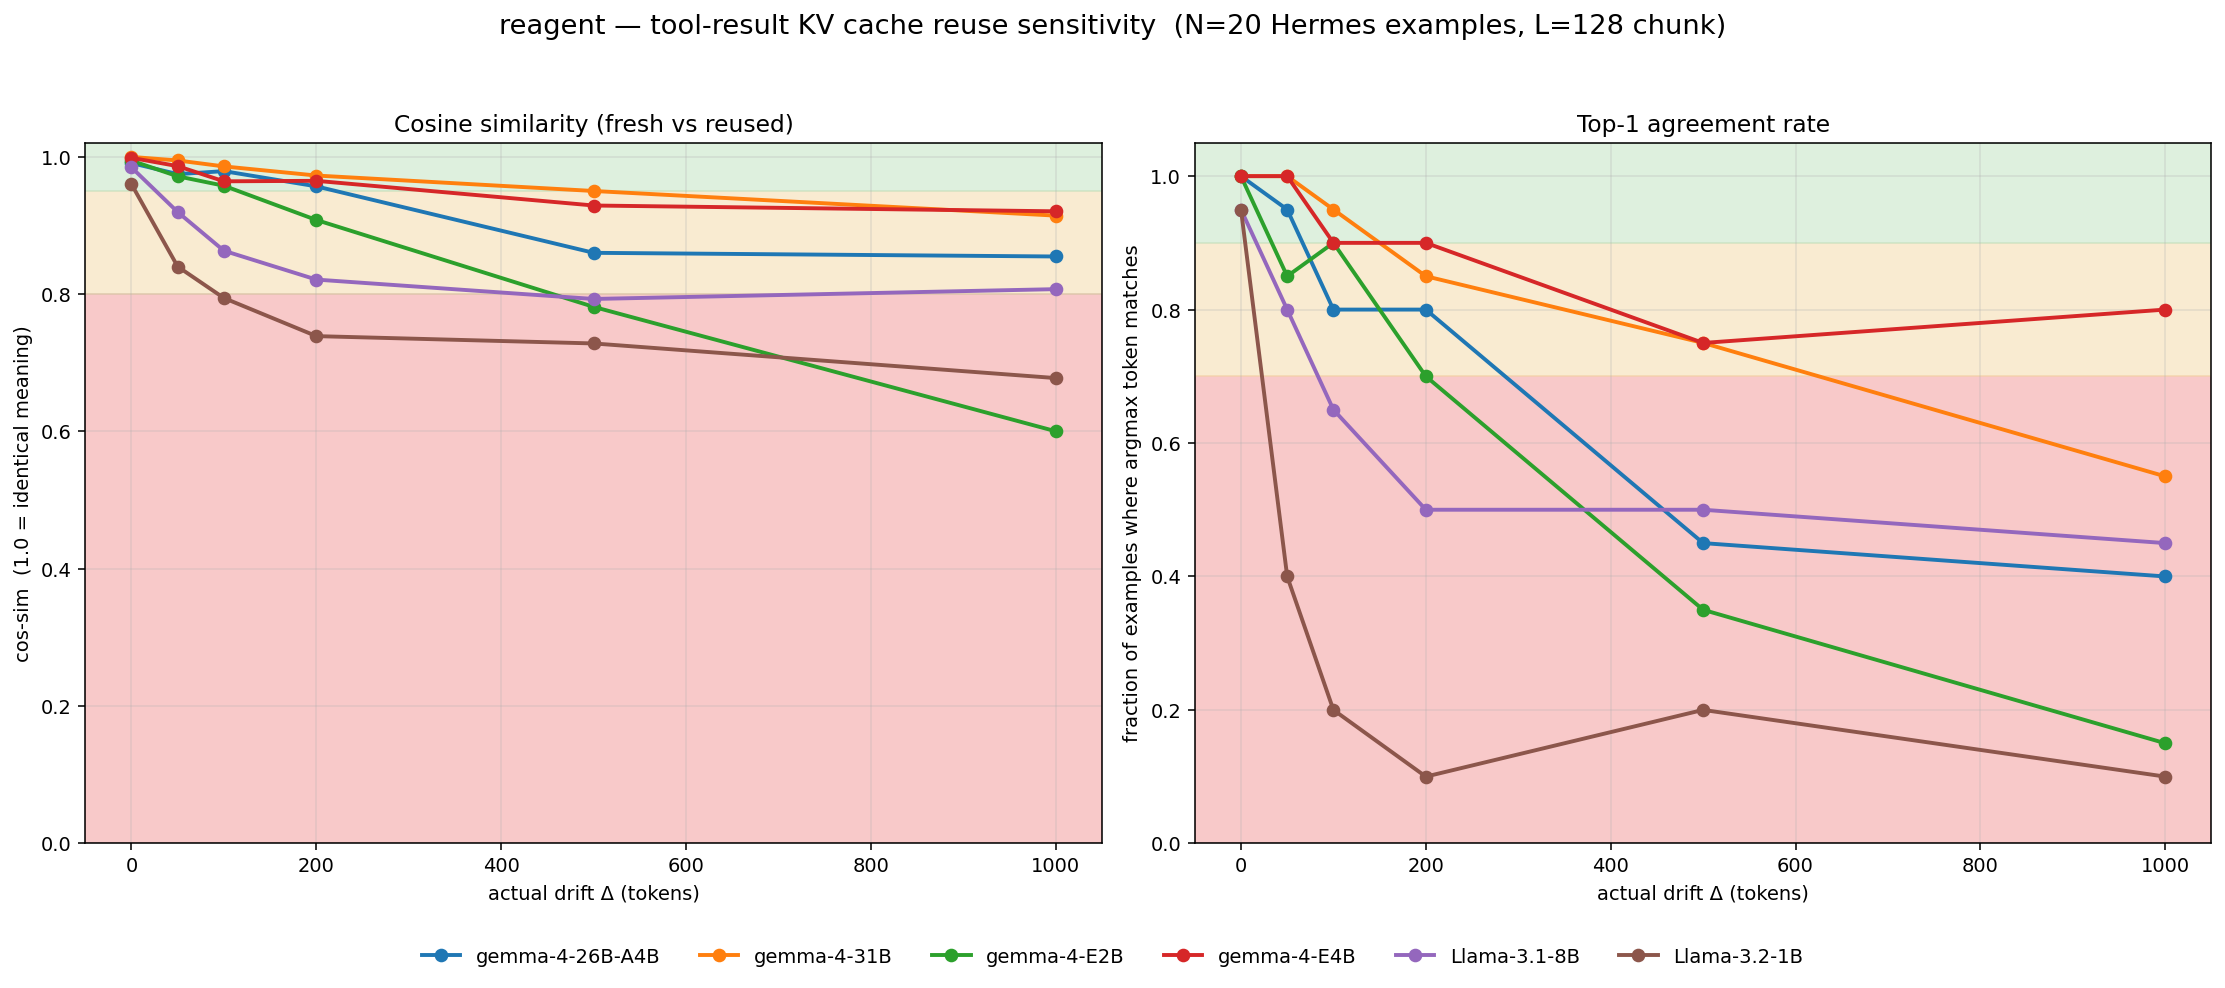
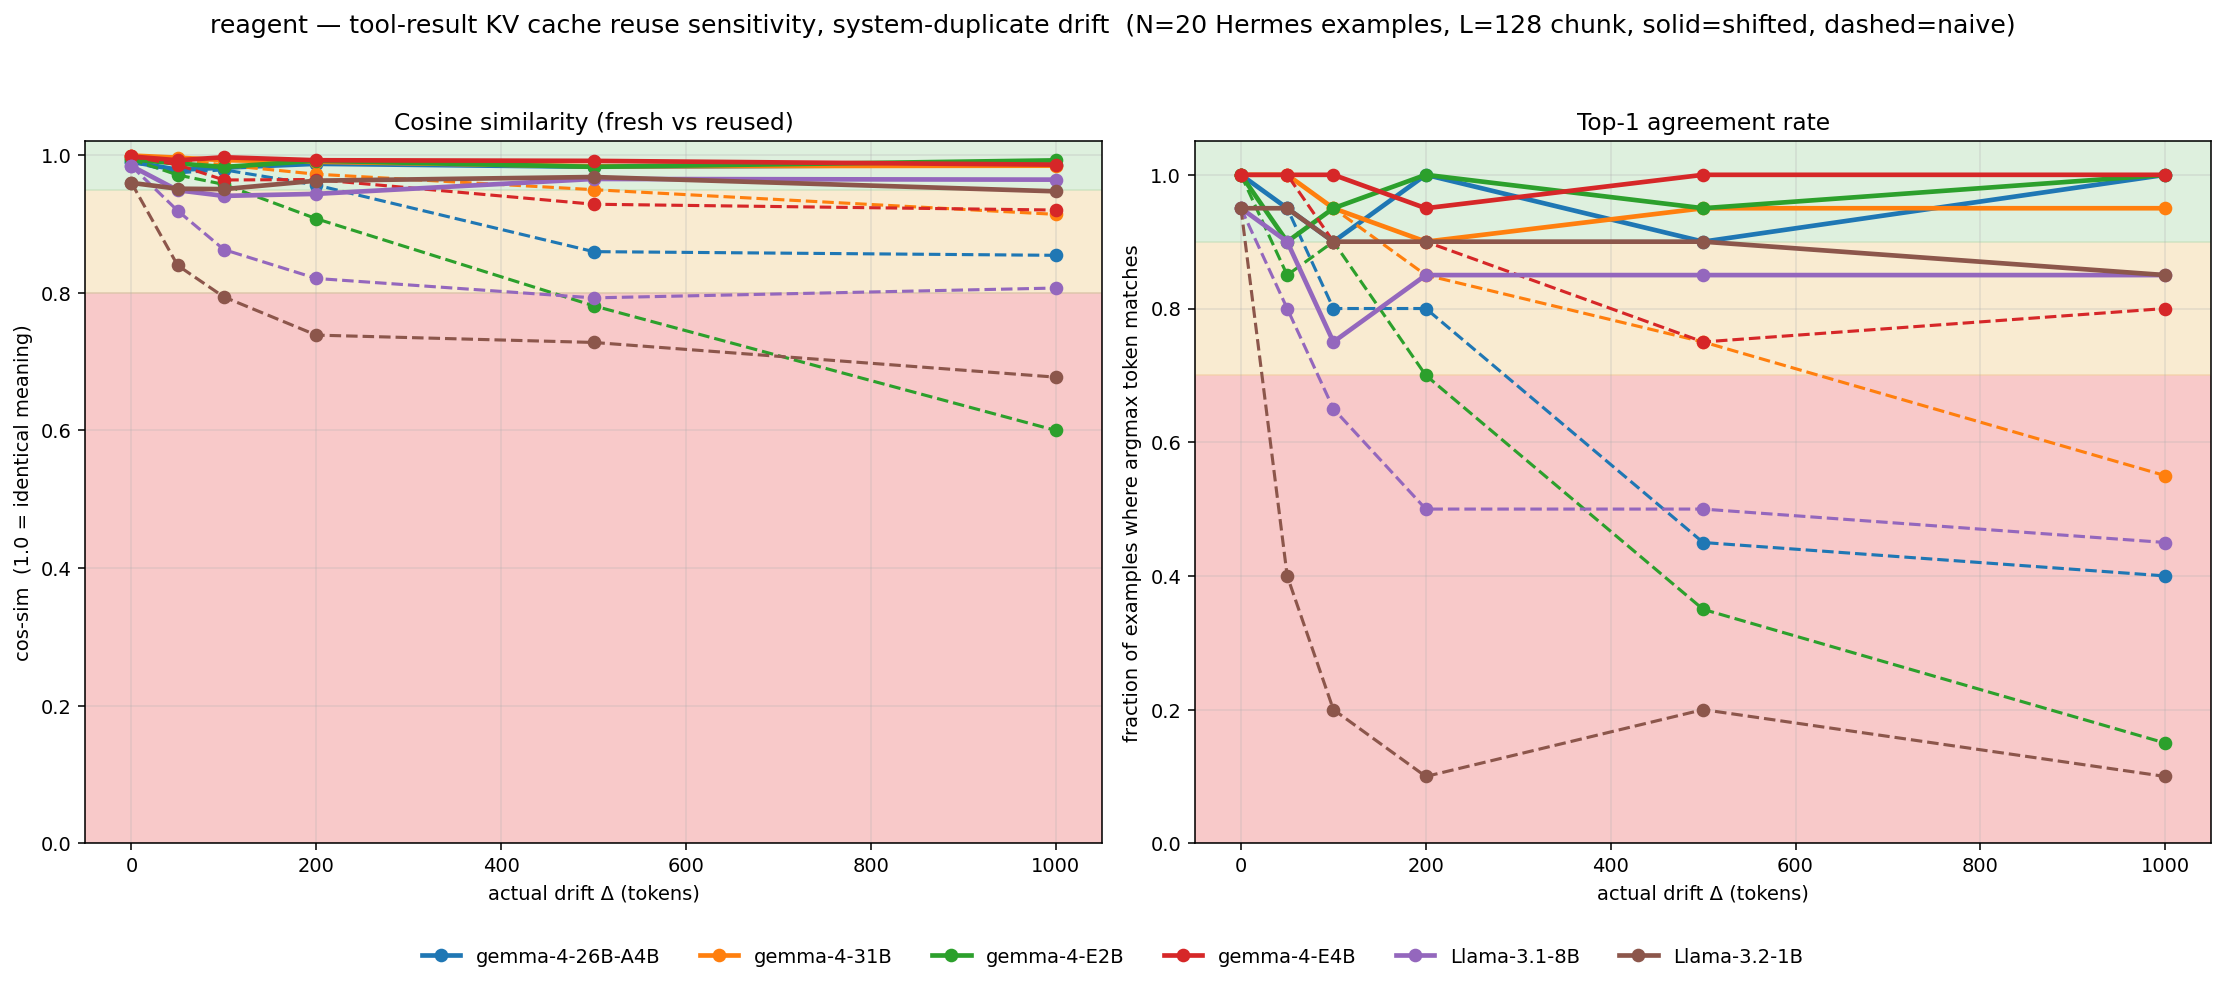
doc: add naive-vs-shifted panel and prior-tool-exchange stress result
Rewrites the Results section around the naive-vs-shifted comparison: tables now show naive → shifted at each drift, and the regenerated figure overlays the two reuse strategies as dashed/solid lines per model on the same safety bands. On the system-duplicate drift mode every model in the panel reaches sim ≥ 0.94 under shifted reuse, up from naive floors of 0.60 (E2B at Δ=1000) and 0.68 (Llama-3.2-1B at Δ=1000). Adds a prior-tool-exchange subsection that exposes a ~5% context-conditioning residual that shift correction cannot fix. The Passing Bar and Running sections are updated to reflect the two reuse modes.

visualize.py now restricts the panel to system-duplicate runs (so other drift modes don't pollute the figure), groups rows by (model, reuse_mode), and plots naive as dashed, shifted as solid in matching per-model colors.

diff --git a/visualize.py b/visualize.py
@@ -30,12 +30,24 @@ def _short(model_id: str) -> str:
 
 
 def load_results(dir_path: Path):
+    """Collect per-model rows for the canonical (naive + shifted) x
+    system-duplicate experiment. Legacy JSONs (pre-dating the
+    reuse_mode/drift_mode fields) are assumed to be naive +
+    system-duplicate, which matches the original harness default.
+    Any non-system-duplicate runs (prior-tool-exchange, etc.) are
+    ignored so the panel stays focused on the core comparison.
+    """
     rows = []
     for f in sorted(dir_path.glob("*.json")):
         data = json.loads(f.read_text())
+        drift_mode = data.get("drift_mode", "system-duplicate")
+        if drift_mode != "system-duplicate":
+            continue
+        reuse_mode = data.get("reuse_mode", "naive")
         drifts = sorted(int(d) for d in data["per_drift"])
         series = {
             "model": data["model"],
+            "reuse_mode": reuse_mode,
             "drifts": drifts,
             "n_examples": data.get("n_examples", "?"),
         }
@@ -66,16 +78,21 @@ def main():
     if not rows:
         raise SystemExit(f"no *.json files in {args.results_dir}")
 
-    # Color each model consistently across subplots.
+    # Color each model consistently across subplots and reuse modes.
+    models_in_order = sorted({r["model"] for r in rows})
     cmap = plt.get_cmap("tab10")
-    colors = {r["model"]: cmap(i % 10) for i, r in enumerate(rows)}
+    colors = {m: cmap(i % 10) for i, m in enumerate(models_in_order)}
+
+    # Line style per reuse mode.
+    style_by_mode = {"naive": "--", "shifted": "-"}
+    width_by_mode = {"naive": 1.6, "shifted": 2.4}
 
     n_examples = rows[0].get("n_examples", "?")
     fig, axes = plt.subplots(1, 2, figsize=(16, 7), sharex=True)
     fig.suptitle(
-        f"reagent — tool-result KV cache reuse sensitivity  "
-        f"(N={n_examples} Hermes examples, L=128 chunk)",
-        fontsize=14,
+        f"reagent — tool-result KV cache reuse sensitivity, system-duplicate drift  "
+        f"(N={n_examples} Hermes examples, L=128 chunk, solid=shifted, dashed=naive)",
+        fontsize=13,
     )
 
     # Safety bands. Green = safe to reuse, yellow = borderline, red = unsafe.
@@ -112,21 +129,33 @@ def main():
             xs = r["mean_actual_delta"]
             ys = r[key]
             c = colors[r["model"]]
-            label = _short(r["model"])
-            ax.plot(xs, ys, marker="o", linewidth=2.0, color=c, label=label, zorder=3)
+            ls = style_by_mode.get(r["reuse_mode"], "-")
+            lw = width_by_mode.get(r["reuse_mode"], 2.0)
+            # Only label the shifted line to keep the legend one-per-model.
+            label = _short(r["model"]) if r["reuse_mode"] == "shifted" else None
+            ax.plot(
+                xs,
+                ys,
+                marker="o",
+                linewidth=lw,
+                linestyle=ls,
+                color=c,
+                label=label,
+                zorder=3,
+            )
         ax.set_title(title)
         ax.set_ylabel(ylabel)
         ax.grid(True, alpha=0.3, zorder=1)
         ax.set_ylim(*ylim)
         ax.set_xlabel("actual drift Δ (tokens)")
 
-    # Put a single legend underneath all plots.
+    # Legend shows one entry per model (from the shifted lines).
     handles, labels = axes[0].get_legend_handles_labels()
     fig.legend(
         handles,
         labels,
         loc="lower center",
-        ncol=min(len(rows), 6),
+        ncol=min(len(models_in_order), 6),
         frameon=False,
         bbox_to_anchor=(0.5, -0.01),
     )

diff --git a/README.md b/README.md
@@ -108,87 +108,97 @@ different content or meaning (red).
 
 ## Results
 
-N = 20 Hermes examples, L = 128, `bge-small-en-v1.5` embedder.
+N = 20 Hermes examples, L = 128, `bge-small-en-v1.5` embedder,
+drift-mode = `system-duplicate`.
 
 ![reagent panel](reagent_panel.png)
 
-### sim(fresh, reused) — headline
+Dashed lines = naive reuse (splice cached K/V without correction);
+solid lines = shifted reuse (re-rotate K by the position delta before
+splicing, matching llama.cpp's `llama_memory_seq_add`). Coloured bands
+come from the Passing Bar thresholds.
+
+### sim(fresh, reused) — headline (naive → shifted)
 
 Semantic similarity between the greedy continuation produced without
-reuse and with reuse. Green band (≥ 0.95) means naive reuse produces
-a semantically-equivalent response; yellow (0.80–0.95) means same
-topic but rewording; red (< 0.80) means reuse rewrites the answer.
+reuse and with reuse. ≥ 0.95 (green) means reuse is
+indistinguishable from fresh; 0.80–0.95 (yellow) means same topic
+but rewording; < 0.80 (red) means reuse rewrites the answer.
 
 | model | Δ=0 | Δ=50 | Δ=100 | Δ=200 | Δ=500 | Δ=1000 |
 |---|---|---|---|---|---|---|
-| `gemma-4-E4B` | 1.00 | 0.99 | 0.96 | 0.96 | 0.93 | 0.92 |
-| `gemma-4-31B` | 1.00 | 0.99 | 0.99 | 0.97 | 0.95 | 0.91 |
-| `gemma-4-26B-A4B` | 0.99 | 0.97 | 0.98 | 0.96 | 0.86 | 0.85 |
-| `Llama-3.1-8B` | 0.98 | 0.92 | 0.86 | 0.82 | 0.79 | 0.81 |
-| `Llama-3.2-1B` | 0.96 | 0.84 | 0.79 | 0.74 | 0.73 | 0.68 |
-| `gemma-4-E2B` | 0.99 | 0.97 | 0.96 | 0.91 | 0.78 | 0.60 |
+| `gemma-4-E4B` | 1.00→1.00 | 0.99→0.99 | 0.96→1.00 | 0.96→0.99 | 0.93→0.99 | 0.92→0.99 |
+| `gemma-4-31B` | 1.00→1.00 | 0.99→1.00 | 0.99→0.99 | 0.97→0.99 | 0.95→0.98 | 0.91→0.98 |
+| `gemma-4-26B-A4B` | 0.99→0.99 | 0.97→0.98 | 0.98→0.98 | 0.96→0.99 | 0.86→0.98 | 0.85→0.99 |
+| `Llama-3.1-8B` | 0.98→0.98 | 0.92→0.95 | 0.86→0.94 | 0.82→0.94 | 0.79→0.97 | 0.81→0.96 |
+| `gemma-4-E2B` | 0.99→0.99 | 0.97→0.99 | 0.96→0.98 | 0.91→0.99 | 0.78→0.98 | 0.60→**0.99** |
+| `Llama-3.2-1B` | 0.96→0.96 | 0.84→0.95 | 0.79→0.95 | 0.74→0.96 | 0.73→0.97 | 0.68→**0.95** |
 
-### top-1 agreement
+Shifted reuse lifts every model to ≥ 0.94 sim across the whole
+drift range. The worst naive regressions (E2B at Δ=1000: 0.60;
+Llama-3.2-1B at Δ=1000: 0.68) recover to 0.99 and 0.95. The phase
+error is essentially the whole story at this block type.
+
+### top-1 agreement (naive → shifted)
 
 Fraction of examples where fresh and reused produce the same argmax
-token at the trigger position. Green (≥ 0.90), yellow (0.70–0.90),
-red (< 0.70) in the figure.
+token at the trigger position. Stricter metric than sim — first-token
+disagreement can be papered over by greedy decoding, so top-1 drops
+faster than sim even when the final text converges.
 
 | model | Δ=0 | Δ=50 | Δ=100 | Δ=200 | Δ=500 | Δ=1000 |
 |---|---|---|---|---|---|---|
-| `gemma-4-E4B` | 1.00 | 1.00 | 0.90 | 0.90 | 0.75 | 0.80 |
-| `gemma-4-31B` | 1.00 | 1.00 | 0.95 | 0.85 | 0.75 | 0.55 |
-| `Llama-3.1-8B` | 0.95 | 0.80 | 0.65 | 0.50 | 0.50 | 0.45 |
-| `gemma-4-26B-A4B` | 1.00 | 0.95 | 0.80 | 0.80 | 0.45 | 0.40 |
-| `gemma-4-E2B` | 1.00 | 0.85 | 0.90 | 0.70 | 0.35 | 0.15 |
-| `Llama-3.2-1B` | 0.95 | 0.40 | 0.20 | 0.10 | 0.20 | 0.10 |
-
-### mean KL(fresh ∥ reused) (nats)
-
-| model | Δ=0 | Δ=50 | Δ=100 | Δ=200 | Δ=500 | Δ=1000 |
-|---|---|---|---|---|---|---|
-| `gemma-4-E4B` | 0.00±0.00 | 0.01±0.02 | 0.03±0.04 | 0.09±0.09 | 0.62±1.29 | 0.69±1.41 |
-| `Llama-3.1-8B` | 0.00±0.00 | 0.08±0.04 | 0.21±0.20 | 1.02±1.45 | 1.94±2.46 | 2.09±2.39 |
-| `gemma-4-31B` | 0.00±0.00 | 0.03±0.06 | 0.15±0.58 | 0.40±1.41 | 1.98±4.61 | 2.65±5.41 |
-| `gemma-4-26B-A4B` | 0.01±0.01 | 0.06±0.14 | 0.09±0.14 | 0.36±1.07 | 2.91±3.36 | 2.74±3.14 |
-| `Llama-3.2-1B` | 0.00±0.00 | 2.25±1.67 | 3.47±2.32 | 5.50±3.03 | 5.44±3.02 | 5.93±3.26 |
-| `gemma-4-E2B` | 0.01±0.05 | 1.91±5.72 | 0.14±0.40 | 2.49±4.59 | 3.99±4.74 | 7.01±5.56 |
-
-### sim(reused, reference)
-
-Cosine similarity of the reused continuation against the dataset's
-gold assistant reply — a task-quality floor independent of fresh.
-
-| model | Δ=0 | Δ=50 | Δ=100 | Δ=200 | Δ=500 | Δ=1000 |
-|---|---|---|---|---|---|---|
-| `gemma-4-E4B` | 0.91 | 0.90 | 0.89 | 0.89 | 0.88 | 0.88 |
-| `gemma-4-31B` | 0.91 | 0.91 | 0.90 | 0.91 | 0.89 | 0.87 |
-| `gemma-4-26B-A4B` | 0.90 | 0.89 | 0.90 | 0.89 | 0.84 | 0.83 |
-| `Llama-3.1-8B` | 0.87 | 0.83 | 0.82 | 0.79 | 0.74 | 0.74 |
-| `gemma-4-E2B` | 0.88 | 0.88 | 0.88 | 0.83 | 0.77 | 0.58 |
-| `Llama-3.2-1B` | 0.76 | 0.76 | 0.73 | 0.67 | 0.67 | 0.65 |
+| `gemma-4-E4B` | 1.00→1.00 | 1.00→1.00 | 0.90→1.00 | 0.90→0.95 | 0.75→1.00 | 0.80→1.00 |
+| `gemma-4-31B` | 1.00→1.00 | 1.00→1.00 | 0.95→0.95 | 0.85→0.90 | 0.75→0.95 | 0.55→0.95 |
+| `gemma-4-26B-A4B` | 1.00→1.00 | 0.95→0.95 | 0.80→0.90 | 0.80→1.00 | 0.45→0.90 | 0.40→1.00 |
+| `Llama-3.1-8B` | 0.95→0.95 | 0.80→0.90 | 0.65→0.75 | 0.50→0.85 | 0.50→0.85 | 0.45→0.85 |
+| `gemma-4-E2B` | 1.00→1.00 | 0.85→0.90 | 0.90→0.95 | 0.70→1.00 | 0.35→0.95 | 0.15→**1.00** |
+| `Llama-3.2-1B` | 0.95→0.95 | 0.40→0.95 | 0.20→0.90 | 0.10→0.90 | 0.20→0.90 | 0.10→**0.85** |
 
 ### How to read the tables
 
 - **Δ=0** is the sanity floor. Non-zero KL here means a harness bug,
-  not a model insight.
+  not a model insight. At Δ=0 both naive and shifted should produce
+  identical output — the shift is 0, so `shift_k_rope` is a no-op.
 - **`sim(fresh, reused)`** is the headline. ≥ 0.95 (green) means
-  naive reuse is indistinguishable; 0.80–0.95 (yellow) means same
-  topic but rewording; < 0.80 (red) means reuse rewrites the answer.
-- **KL** flags first-token disagreement; **sim** tells you whether
-  the disagreement persists or the two sides converge on similar
-  content after a few tokens. Use both.
-- **`sim(reused, reference)`** gives a quality floor: if it drops
-  faster than `sim(fresh, reused)` as Δ grows, reuse is degrading
-  task quality.
-- **Large stdev matters.** Gemma-4-E2B at Δ=1000 shows `7.01±5.56`:
-  the outcome is prompt-dependent and production quality would be
-  unpredictable.
+  reuse is indistinguishable; 0.80–0.95 (yellow) means same topic
+  but rewording; < 0.80 (red) means reuse rewrites the answer.
 - **Agreement vs similarity diverge.** Top-1 agreement drops fast
-  (even the best models are at 0.55–0.80 by Δ=1000), while
-  `sim(fresh, reused)` holds ≥ 0.90 for the Gemma-4 ≥ 4B panel —
-  greedy decoding recovers to semantically-equivalent output
-  despite first-token disagreement.
+  even for the best-naive models (Llama-3.2-1B at Δ=1000 naive: 10%
+  agreement, 68% sim), while sim stays higher because greedy decoding
+  routes back to a semantically-equivalent continuation. Shifted
+  pulls both metrics into the green zone simultaneously.
+
+### Additional stress test: prior-tool-exchange (E4B)
+
+Under drift-mode `prior-tool-exchange`, the drifted request has a
+complete donor `[user → asst(tool_call) → tool]` exchange spliced
+between the `system` and the original `user`. Unlike
+`system-duplicate` (which inflates with semantically-null copies of
+the system prompt), this introduces genuinely different content
+between cache-write and cache-read, so the cached chunk's
+attention-encoded neighbours are no longer the same. This exposes
+the *context-conditioning* error that RoPE shift alone cannot fix.
+
+E4B, N=20, drifts `{0, 500, 1000, 2000, 5000}`:
+
+| Δ | naive sim | shifted sim | Δsim | naive KL | shifted KL |
+|---|---|---|---|---|---|
+| 0 | 1.00 | 1.00 | +0.00 | 0.00 | 0.00 |
+| 500 | 0.94 | 0.96 | +0.02 | 0.60 | 0.06 |
+| 1000 | 0.90 | 0.94 | +0.03 | 0.57 | 0.14 |
+| 2000 | **0.74** | **0.94** | **+0.21** | 2.67 | 0.18 |
+| 5000 | 0.84 | 0.94 | +0.10 | 1.79 | 0.28 |
+
+Shift correction flattens the naive curve (which dips to 0.74 at
+Δ=2000) to ~0.94 across all drifts. But the ceiling is ~0.94, not
+~0.99 like system-duplicate — the ≈5% gap is the context-conditioning
+residual: the cached K vectors encode attention back to their
+original neighbours, which are not present in the drifted request.
+Shift corrects positions; it cannot reconstruct the referents. The
+magnitude is small on this dataset because a tool-result's K is
+mostly internally self-referential, but it is present and
+non-zero.
 
 ### Drift magnitudes
 
@@ -201,11 +211,15 @@ gold assistant reply — a task-quality floor independent of fresh.
 
 ### Passing bar
 
-A model is safe for naive cross-prompt cache reuse at a given drift
-when mean KL < ~1 nat, stdev small relative to the mean, top-1 agree
-≥ 0.9, and `sim(fresh, reused)` ≥ 0.95. Anything worse means the
-serving stack needs a correction policy (boundary recompute,
-re-prefill, or skip-reuse past a Δ threshold).
+A reuse setup is safe at a given drift when mean KL < ~1 nat, stdev
+small relative to the mean, top-1 agree ≥ 0.9, and
+`sim(fresh, reused)` ≥ 0.95. Under **naive** reuse, no model in our
+panel meets that bar past Δ=50; large Gemma-4 variants degrade
+gracefully but still fall below 0.95 sim and 0.9 agreement by
+Δ=500. Under **shifted** reuse every model in the panel meets the
+bar across the entire drift range on `system-duplicate`. Shifted is
+the production-correctness baseline; naive is a strawman that should
+never ship.
 
 ## Running
 
@@ -240,9 +254,32 @@ models that already have a non-empty `results/<model>.json`
 model writes a JSON with both aggregated statistics and per-example
 rows.
 
+`measure_reuse_drift.py` takes `--reuse-mode {naive, shifted}`
+(default `naive`) and `--drift-mode {system-duplicate,
+system-instructions, turn-insert, prior-tool-exchange}` (default
+`system-duplicate`). Combine them to explore the matrix directly:
+
+```bash
+# shifted on the canonical drift mode
+uv run --script measure_reuse_drift.py --model ... --reuse-mode shifted ...
+
+# harder drift mode with real content between cache-write and cache-read
+uv run --script measure_reuse_drift.py --model ... --drift-mode prior-tool-exchange ...
+```
+
 `visualize.py` renders a 2-panel figure (`sim(fresh, reused)` and
-top-1 agreement) from whatever JSONs are present, with green /
-yellow / red safety bands drawn from the Passing Bar thresholds.
+top-1 agreement) from the `results/` JSONs. It includes only the
+`system-duplicate` runs (the other drift modes use different Δ
+schedules and live outside the core panel) and draws naive as dashed
+lines and shifted as solid lines, in matching colours per model, on
+the green / yellow / red safety bands from the Passing Bar
+thresholds.
+
+The `drift_modes` module is unit-tested with pytest:
+
+```bash
+./test_drift_modes.py    # 59 parametrized tests, ~0.1 s
+```
 
 ## Contributing
 